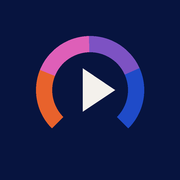
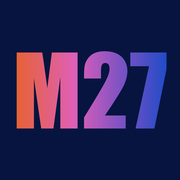
Icône : gros M27 en dégradé

diff --git a/tools/make_icons.py b/tools/make_icons.py
@@ -1,0 +1,33 @@
+"""Génère les icônes : gros « M27 » en dégradé orange > rose > violet > bleu sur fond marine."""
+import sys
+from PIL import Image, ImageDraw, ImageFont
+FONT = sys.argv[1] if len(sys.argv) > 1 else '/System/Library/Fonts/Supplemental/Impact.ttf'
+IDX = int(sys.argv[2]) if len(sys.argv) > 2 else 0
+STOPS = [(0, (232, 98, 44)), (.4, (222, 95, 184)), (.7, (125, 82, 195)), (1, (31, 75, 200))]
+def grad(t):
+    for (a, ca), (b, cb) in zip(STOPS, STOPS[1:]):
+        if t <= b:
+            k = (t - a) / (b - a)
+            return tuple(round(ca[i] + (cb[i] - ca[i]) * k) for i in range(3))
+    return STOPS[-1][1]
+def make(n, out, fill=0.86):
+    S = n * 4
+    bg = Image.new('RGB', (S, S), (7, 20, 63))
+    # texte le plus large possible dans la zone sûre
+    size = S
+    while True:
+        f = ImageFont.truetype(FONT, size, index=IDX)
+        l, t, r, b = f.getbbox('M27')
+        if r - l <= S * fill or size < 10: break
+        size -= 4
+    mask = Image.new('L', (S, S), 0)
+    d = ImageDraw.Draw(mask)
+    d.text(((S - (r - l)) / 2 - l, (S - (b - t)) / 2 - t), 'M27', font=f, fill=255)
+    g = Image.new('RGB', (S, S))
+    gd = ImageDraw.Draw(g)
+    x0, x1 = (S - (r - l)) / 2, (S + (r - l)) / 2
+    for x in range(S):
+        gd.line([(x, 0), (x, S)], fill=grad(min(1, max(0, (x - x0) / (x1 - x0)))))
+    bg.paste(g, mask=mask)
+    bg.resize((n, n), Image.LANCZOS).save(out)
+make(512, 'icons/icon-512.png'); make(192, 'icons/icon-192.png'); make(180, 'icons/apple-touch-icon.png')
